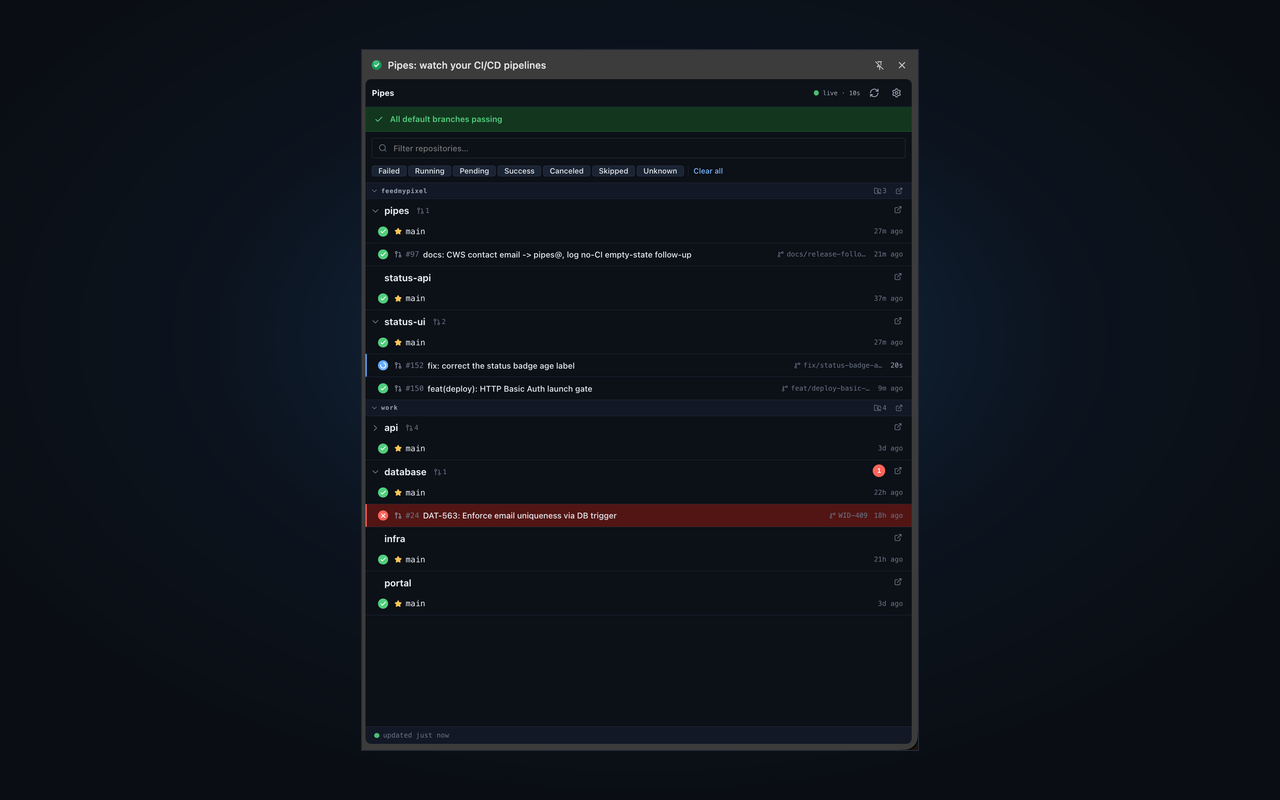
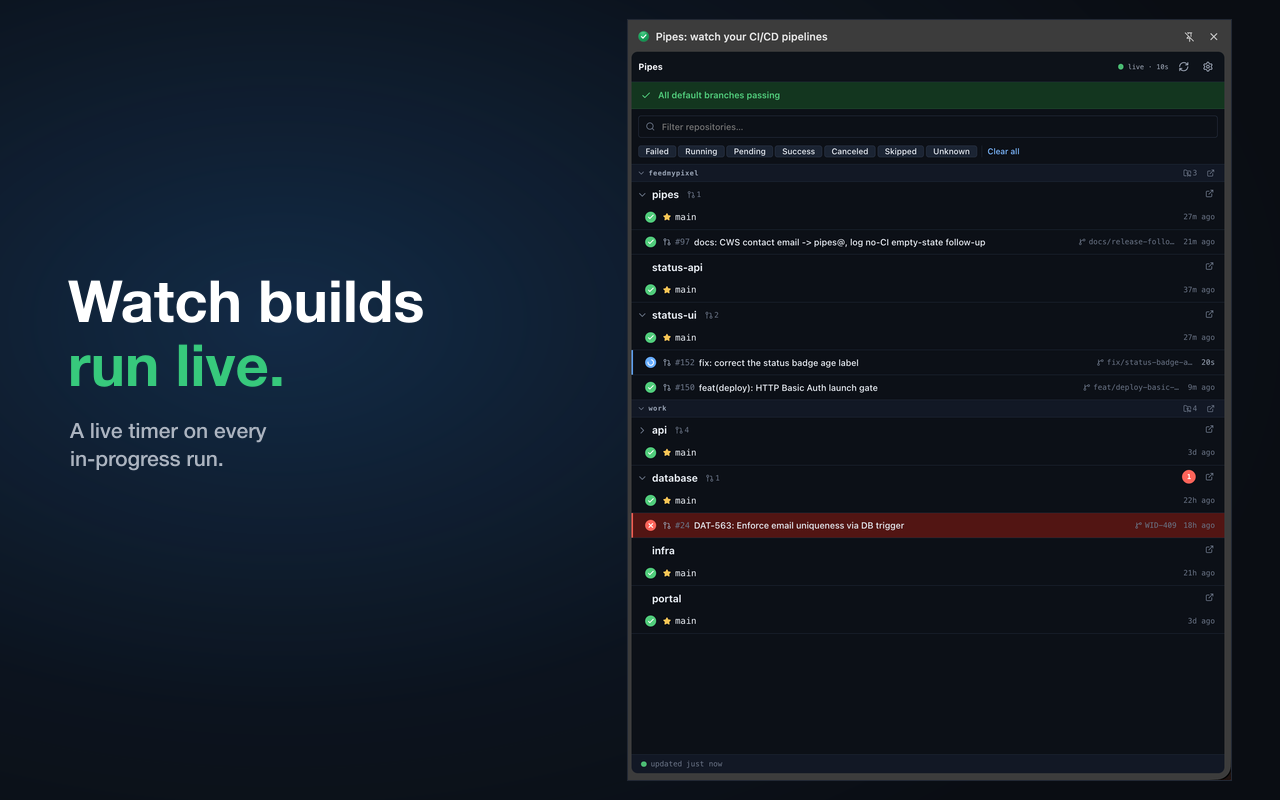
docs: reframe store screenshots + add the promo tile
Re-render the five listing screenshots in a marketing treatment: the surface
scaled larger (fills the height) with a headline + subline in the previously-empty
canvas space, on the brand backdrop. Bigger, crisper UI and cohesive with the
promo tile (1280x800 is the Web Store ceiling, so this uses the frame rather than
shrinking the UI onto it).

Adds the 440x280 small promo tile and flips its asset-table row to ready.

Changed region(s): [[0.0, 0.0, 0.9688, 1.0], [0.875, 0.4688, 0.9062, 0.5]]

diff --git a/CHROMEWEBSTORE.md b/CHROMEWEBSTORE.md
@@ -51,15 +51,15 @@ English
 
 ## Graphics & Assets
 
-| Asset                          | Dimensions  | Status         | Filename                                            |
-| ------------------------------ | ----------- | -------------- | --------------------------------------------------- |
-| Store Icon [REQUIRED]          | 128×128 PNG | ✅ Ready       | `icons/icon-128.png`                                |
-| Screenshot 1 [REQUIRED]        | 1280×800    | ✅ Ready       | `store-screenshots/framed/1-sidepanel-failures.png` |
-| Screenshot 2 [RECOMMENDED]     | 1280×800    | ✅ Ready       | `store-screenshots/framed/3-popup.png`              |
-| Screenshot 3 [RECOMMENDED]     | 1280×800    | ✅ Ready       | `store-screenshots/framed/4-notification.png`       |
-| Screenshot 4                   | 1280×800    | ✅ Ready       | `store-screenshots/framed/5-options.png`            |
-| Screenshot 5                   | 1280×800    | ✅ Ready       | `store-screenshots/framed/2-sidepanel-running.png`  |
-| Small Promo Tile [RECOMMENDED] | 440×280     | ⬜ Not created |                                                     |
+| Asset                          | Dimensions  | Status   | Filename                                            |
+| ------------------------------ | ----------- | -------- | --------------------------------------------------- |
+| Store Icon [REQUIRED]          | 128×128 PNG | ✅ Ready | `icons/icon-128.png`                                |
+| Screenshot 1 [REQUIRED]        | 1280×800    | ✅ Ready | `store-screenshots/framed/1-sidepanel-failures.png` |
+| Screenshot 2 [RECOMMENDED]     | 1280×800    | ✅ Ready | `store-screenshots/framed/3-popup.png`              |
+| Screenshot 3 [RECOMMENDED]     | 1280×800    | ✅ Ready | `store-screenshots/framed/4-notification.png`       |
+| Screenshot 4                   | 1280×800    | ✅ Ready | `store-screenshots/framed/5-options.png`            |
+| Screenshot 5                   | 1280×800    | ✅ Ready | `store-screenshots/framed/2-sidepanel-running.png`  |
+| Small Promo Tile [RECOMMENDED] | 440×280     | ✅ Ready | `store-screenshots/framed/6-promo-tile.png`         |
 
 ### Screenshot Notes
 
